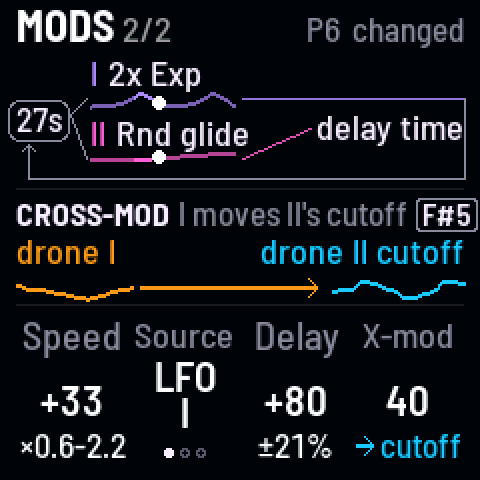
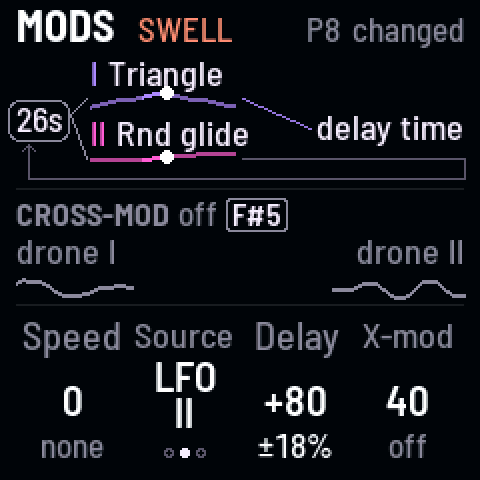
Echoes that warble from Sibyl, its echoes up, so the bends are heard (Seance's echoes sat too far back)

diff --git a/docs/manual/recipes/sounds.md b/docs/manual/recipes/sounds.md
@@ -259,24 +259,23 @@ easiest to hear on a vibrato.
 When the delay's time moves, its echoes bend in pitch, as tape does when it speeds up and slows down. Let an LFO move
 it, and every echo warbles.
 
-1. Press [[LFO]], and tap black key 10, [[D#5]], to pick which LFO moves the delay's time (I, II or both).
-2. Press [[LFO]] again for **Mods**, and turn KNOB 3, Delay, up: the delay's time wobbles by up to a quarter, and the
-   echoes bend with it.
-3. Press [[FX]] for **Space**, and turn Repeat (KNOB 1) up: each echo bends again as it comes round.
-4. Press [[FX]] again for **Details**, and turn Time (KNOB 2) up: the bends get deeper and slower.
+1. Press [[FX]] for **Space**, and turn Repeat (KNOB 1) and Mix (KNOB 2) up: clear echoes to bend.
+2. Press [[LFO]] twice for **Mods**, and turn KNOB 3, Delay, up: the LFO wobbles the delay's time by up to a quarter,
+   and every echo bends with it.
+3. Press [[FX]] twice for **Details**, and turn Time (KNOB 2) up: deeper, slower bends.
 
-> **Good to know.** Turning Time by hand bends the echoes too. A slow LFO warbles; a fast one makes a vibrato on the
-> echoes alone. Movement (ALGORITHM) scales the warble with the other LFO sends.
+> **Good to know.** On the LFO pages, black key 10, [[D#5]], picks which LFO moves the delay's time: LFO I's
+> regular waves warble evenly, LFO II's random glide makes them wander, as here. Turning Time by hand bends the
+> echoes too. Movement (ALGORITHM) scales the warble with the other LFO sends.
 
-![Mods, Delay +80, LFO I](../media/warble-0.png "Delay +80")
-![Details, Time 730 ms](../media/warble-1.png "Time 730 ms")
+![Mods, Delay +80](../media/warble-0.png "Delay +80")
+![Details, Time 410 ms](../media/warble-1.png "Time 410 ms")
 
 **Listen** (`warble`)
 
-- 0:00 P6 Seance as it starts
-- 0:01 the LFO on the delay's time, Delay up: the echoes wobble and bend
-- 0:09 more repeats: each echo bends again as it comes round
-- 0:13 a longer Time: deeper, slower bends
+- 0:00 P8 Sibyl with its echoes up: clear repeats of the two voices
+- 0:01 Delay up: the LFO wobbles the delay's time, and every echo bends in pitch
+- 0:09 a longer Time: deeper, slower bends
 
 ### Crackling echoes {#crackle}
 
